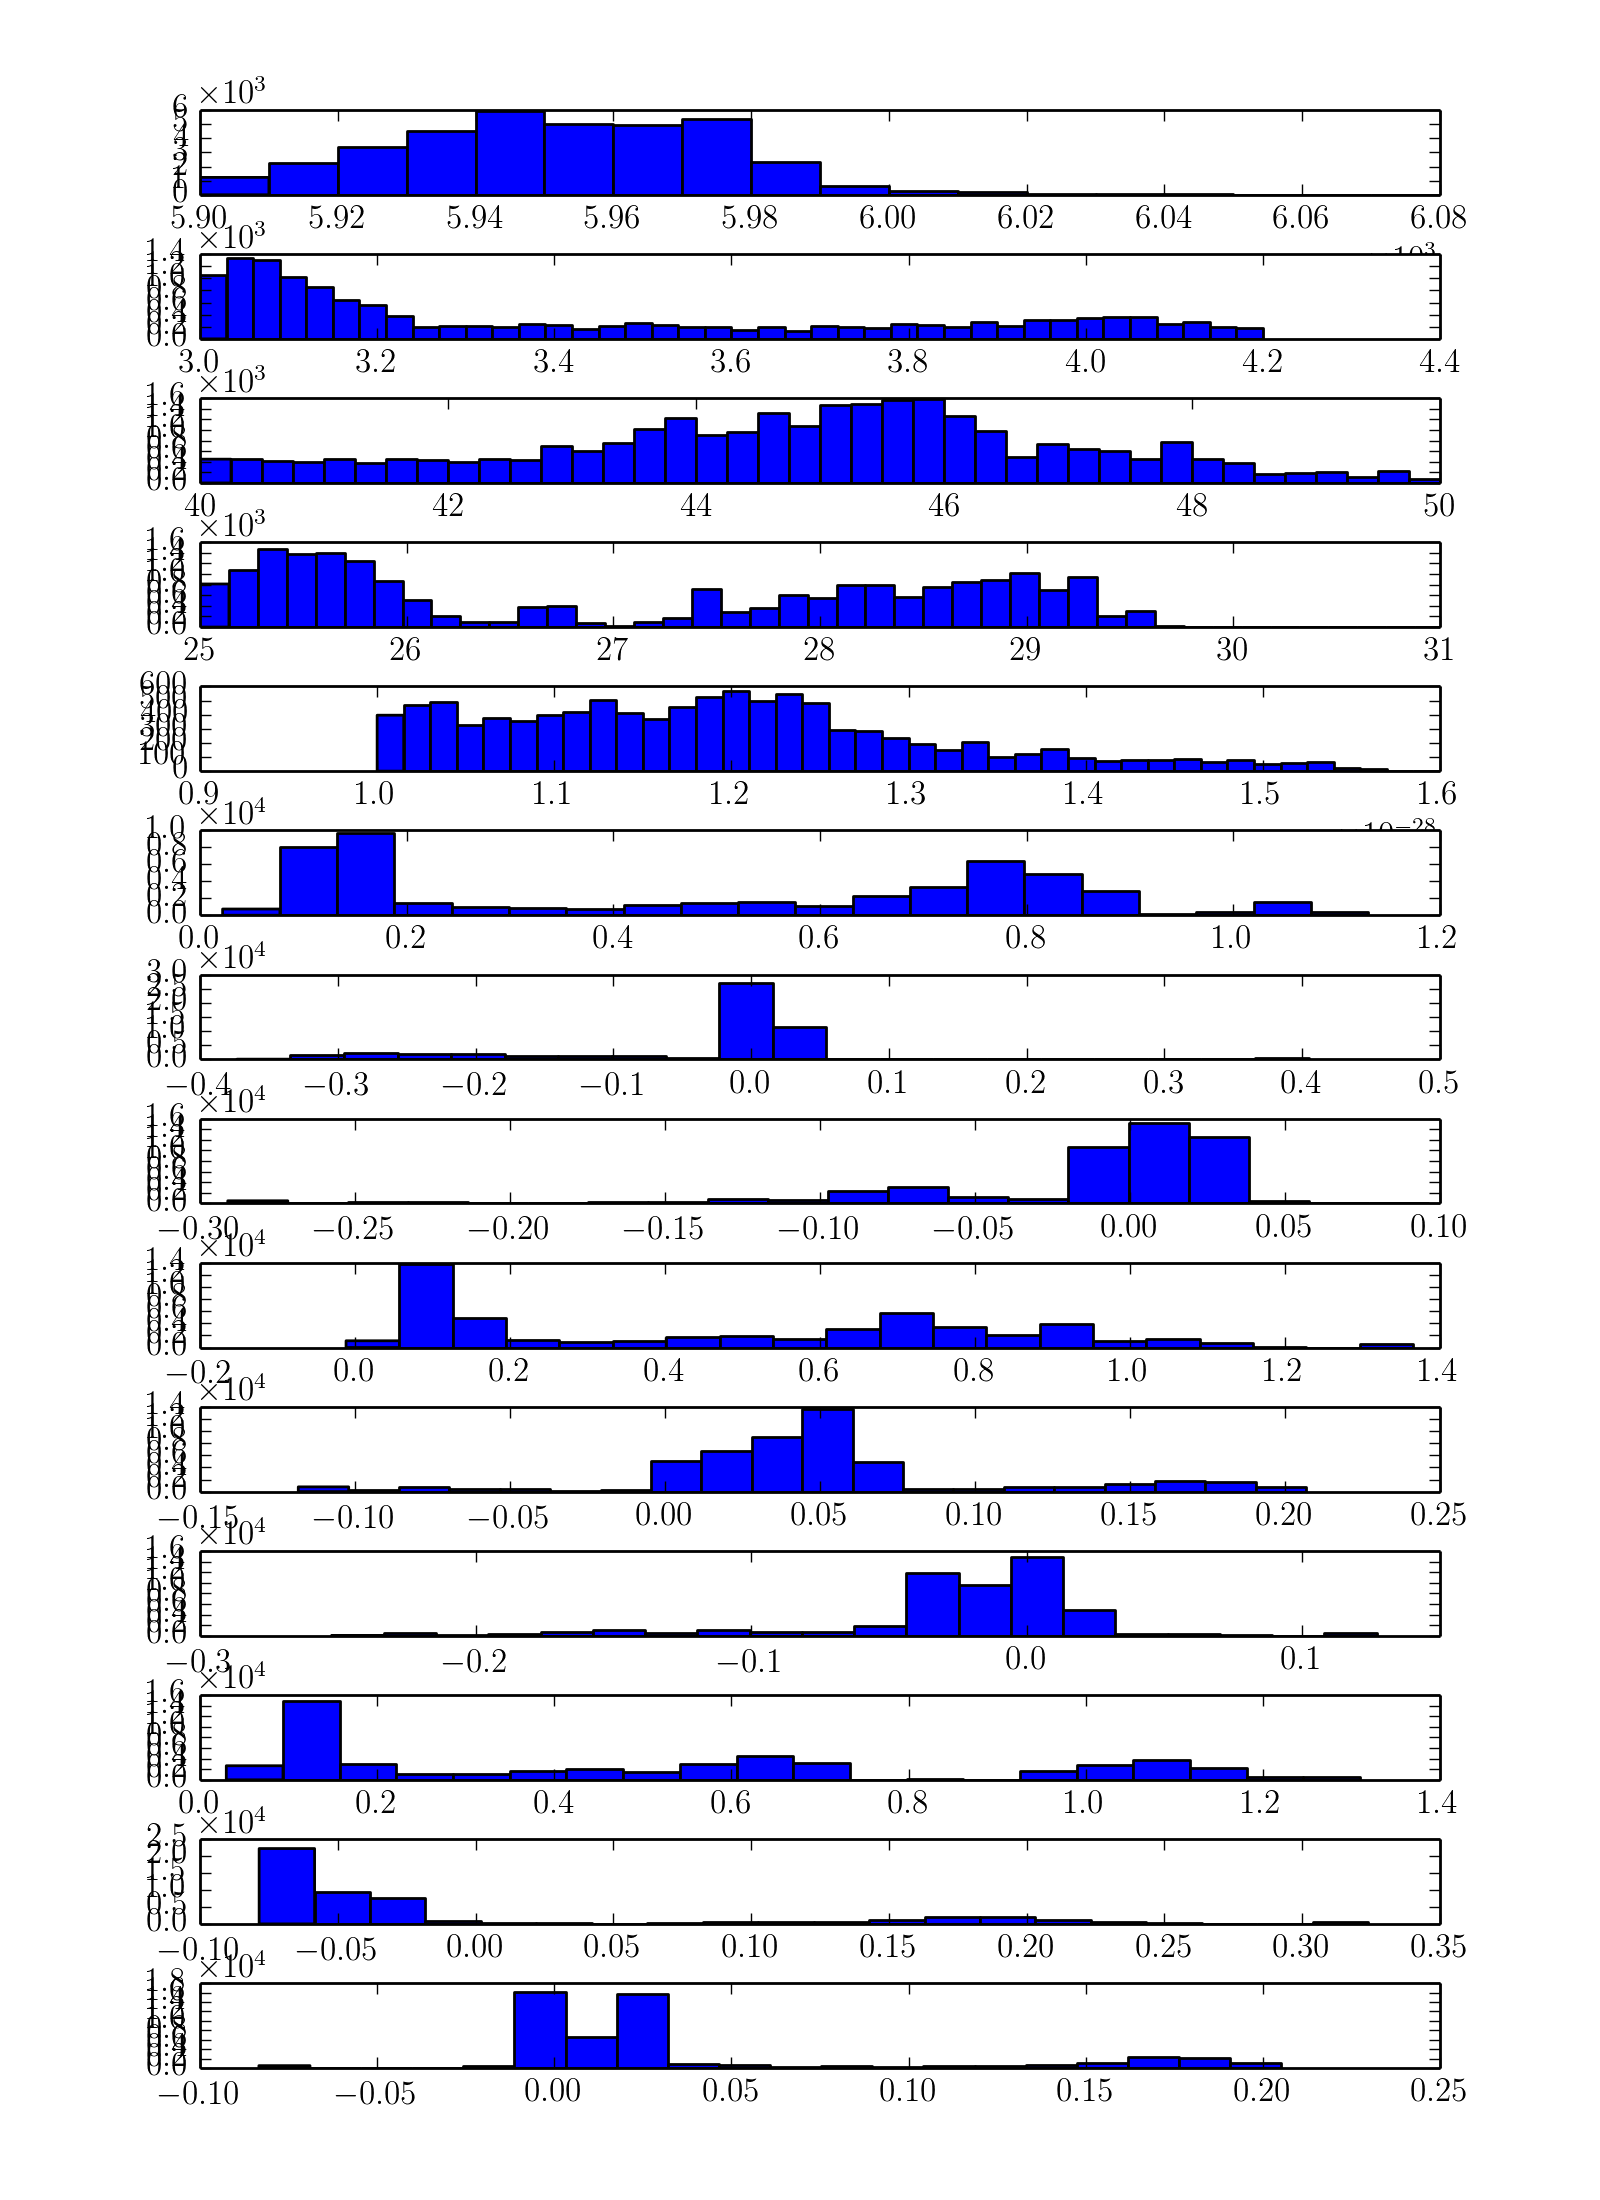
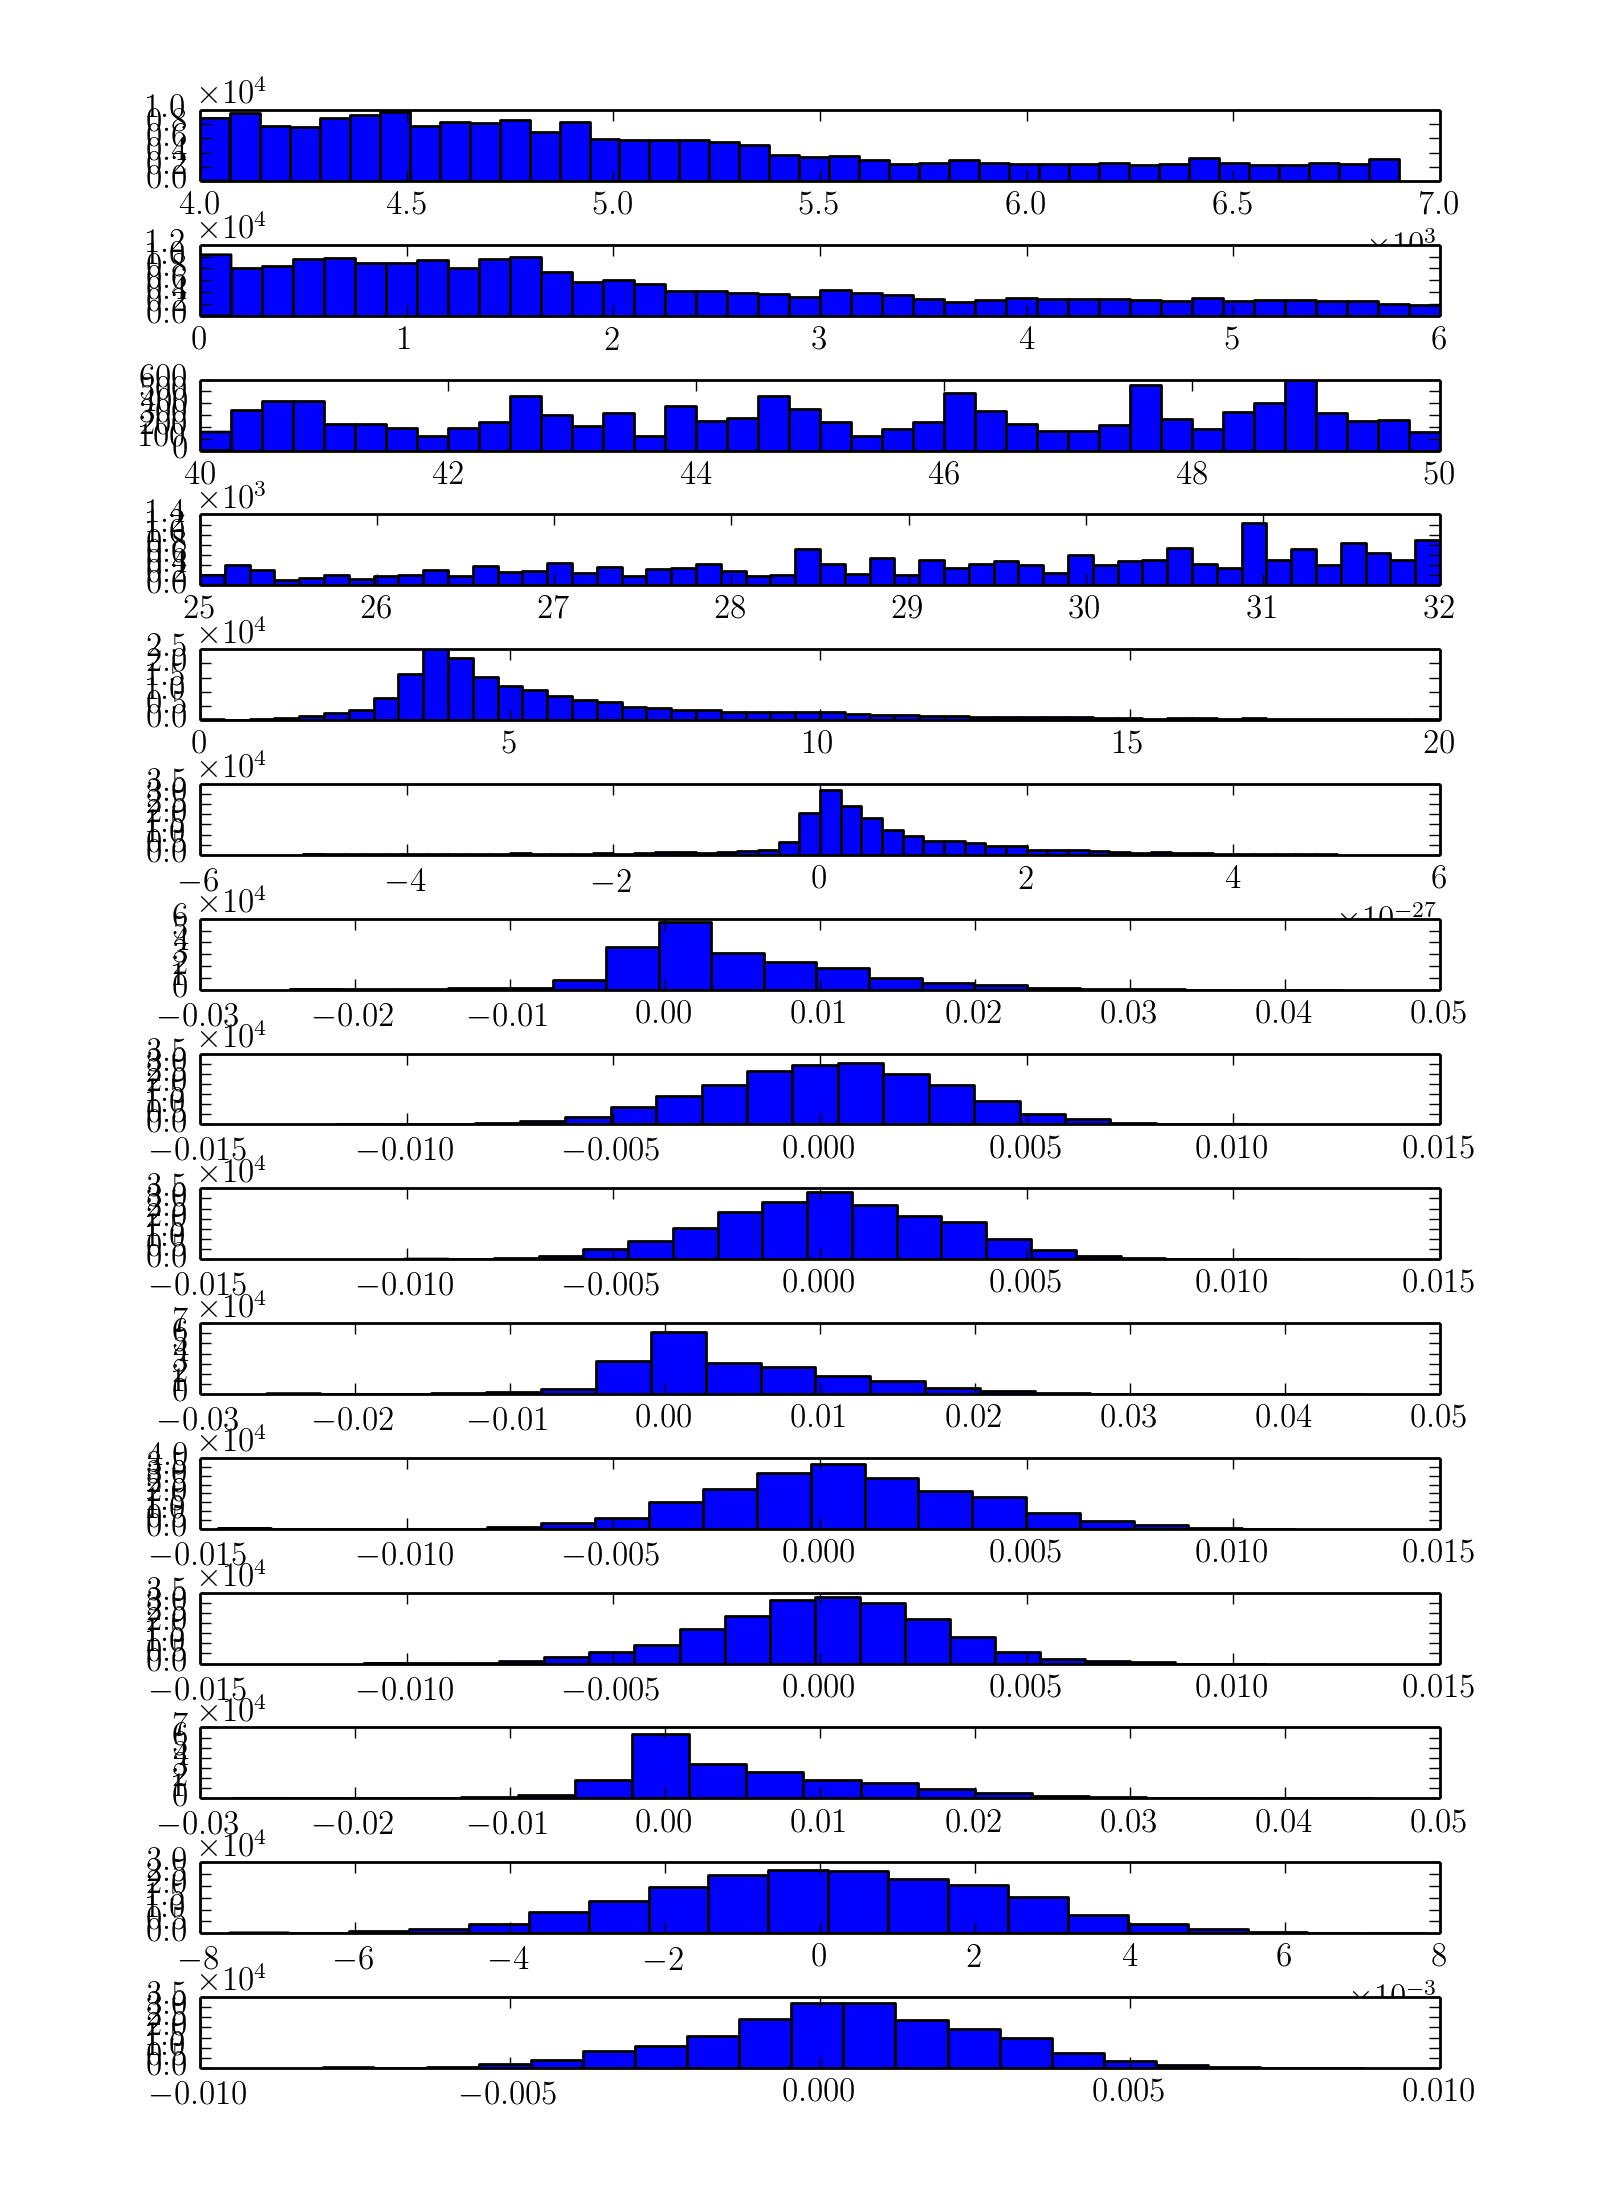
Tweaked parameters

Changed region(s): [[0.0938, 0.0309, 0.9062, 0.9582], [0.8438, 0.8036, 0.9062, 0.9582], [0.2188, 0.9273, 0.25, 0.9582]]

diff --git a/plot_MCMC.py b/plot_MCMC.py
@@ -70,16 +70,17 @@ loggbin_edges = [0.0, 0.25, 0.75, 1.25, 1.75, 2.25, 2.75, 3.25, 3.75, 4.25, 4.75
 def hist_param(flatchain):
     fig, axes = plt.subplots(nrows=nparams,ncols=1,figsize=(8,11))
     
-    axes[0].hist(flatchain[:,0],bins=40,range=(5900,6300)) #temp
-    axes[1].hist(flatchain[:,1],bins=40,range=(3.0,4.2)) #logg
+    axes[0].hist(flatchain[:,0],bins=40)#,range=(5900,6300)) #temp
+    axes[1].hist(flatchain[:,1],bins=40)#,range=(3.0,4.2)) #logg
     axes[2].hist(flatchain[:,2],bins=40,range=(40,50)) #vsini
     axes[3].hist(flatchain[:,3],bins=50,range=(25,32)) #vz
-    axes[4].hist(flatchain[:,4],bins=100,range=(1e-28,2.5e-28)) #c0
+    axes[4].hist(flatchain[:,4],bins=50,range=(0,20)) #Av
+    axes[5].hist(flatchain[:,5],bins=50,range=(-5e-27,5e-27)) #fluxfactor
 
-    for i,ax in enumerate(axes[5:]):
-        ax.hist(flatchain[:,i+5],bins=20)
+    for i,ax in enumerate(axes[6:]):
+        ax.hist(flatchain[:,i+6],bins=20)
 
-    fig.subplots_adjust(hspace=0.7,top=0.95,bottom=0.06)
+    fig.subplots_adjust(hspace=0.9,top=0.95,bottom=0.06)
     #plt.show()
     plt.savefig('plots/posteriors/' + subdir + 'hist_param.png')
 
@@ -309,9 +310,9 @@ def get_acor():
         print(acor.acor(chain[:,:,param]))
 
 
-#print(len(flatchain))
+print(len(flatchain))
 #hist_param(flatchain[590000:])
-hist_param(flatchain)
+hist_param(flatchain[100000:])
 #plot_random_data()
 #joint_hist(2,3,bins=[20,40],range=((50,65),(28,31)))
 #joint_hist(0,4,range=((),()))

diff --git a/MCMC.py b/MCMC.py
@@ -22,13 +22,13 @@ def main():
     nwalkers = config['nwalkers']
 
     # Choose an initial set of positions for the walkers, randomly distributed across a reasonable range of parameters.
-    temp = np.random.uniform(low=5200, high = 6600, size=(nwalkers,))
-    logg = np.random.uniform(low=2.5, high=4.2, size=(nwalkers,))
+    temp = np.random.uniform(low=5500, high = 6300, size=(nwalkers,))
+    logg = np.random.uniform(low=3.0, high=3.7, size=(nwalkers,))
     #M = np.random.uniform(low=0.1, high = 10, size=(nwalkers,))
     #R = np.random.uniform(low=0.1, high = 10, size=(nwalkers,))
-    Av = np.random.uniform(low=0, high = 2, size=(nwalkers,))
     vsini = np.random.uniform(low=35, high = 55, size=(nwalkers,))
     vz = np.random.uniform(low=27, high = 29.5, size=(nwalkers,))
+    Av = np.random.uniform(low=1, high = 5, size=(nwalkers,))
     flux_factor = np.random.uniform(low=1.e-28, high = 1.e-27, size=(nwalkers,))
     c0_21 = np.random.uniform(low=0.9, high = 1.1, size=(nwalkers,))
     c1_21 = np.random.uniform(low=-0.1, high = 0.1, size=(nwalkers,))

diff --git a/PHOENIX_tools.py b/PHOENIX_tools.py
@@ -41,7 +41,8 @@ def point_resolver():
 def write_hdf5():
     '''create an hdf5 file of the PHOENIX grid. Go through each T point, if the corresponding logg exists, write it. If not, write zeros.'''
     f = h5py.File("LIB.hdf5","w")
-    dset = f.create_dataset("LIB",(len(T_points),len(logg_points),len_p), dtype="f")
+    shape = (len(T_points),len(logg_points),len_p)
+    dset = f.create_dataset("LIB",shape,chunks=(1,1,len_p),dtype="f")
     for t,temp in enumerate(T_points):
         for l,logg in enumerate(logg_points):
             try:

diff --git a/model.py b/model.py
@@ -326,7 +326,7 @@ def lnprob(p):
     '''p is the parameter vector, contains both theta_s and theta_n'''
     #print(p)
     temp, logg, vsini, vz, Av, flux_factor = p[:6]
-    if (logg < 0) or (logg > 6.0) or (vsini < 0) or (temp < 4000) or (temp > 6900) or (Av < 0):
+    if (logg < 0) or (logg > 6.0) or (vsini < 0) or (temp < 2300) or (temp > 10000) or (Av < 0):
         return -np.inf
     else:
         coefs = p[6:]
